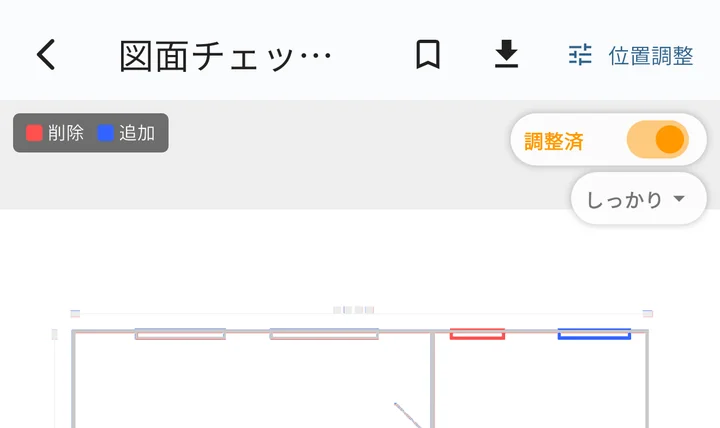
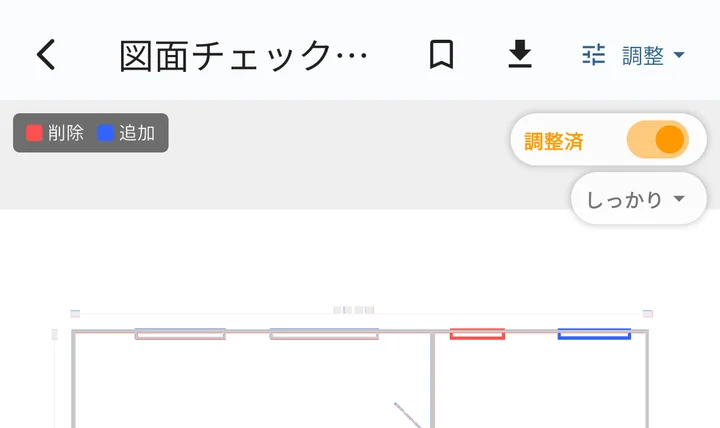
docs: CAD 図面比較「サイズ合わせ画面」の説明を追加
- サイズ合わせ画面（新機能）の手順・操作方法・スクショを新規 H3 で追加
- 「調整 ▾」メニュー導入に伴う表記修正（「位置調整」→「位置合わせ」）
- 既存スクショ 7 件を最新 UI に差し替え（差分結果 / ビューモード旧新 / フィルタ / 調整済切替）
- サイドバー TOC に「サイズ合わせ画面」リンク追加
- 操作リファレンスに サイズ合わせ操作 3 行追加

diff --git a/docs/manual.html b/docs/manual.html
@@ -555,6 +555,7 @@
     <li class="sub2"><a href="#diff-zoom">ズーム・パン</a></li>
     <li class="sub2"><a href="#diff-export">画像エクスポート</a></li>
     <li><a href="#alignment">位置合わせ画面</a></li>
+    <li><a href="#size-alignment">サイズ合わせ画面</a></li>
     <li class="sub"><a href="#diff-actions">操作リファレンス</a></li>
   </ul>
 
@@ -1398,7 +1399,7 @@
   </figure>
   <figure class="shot-phone">
     <img src="images/diff_result.webp" width="720" height="1564" alt="差分結果画面（位置がずれた状態）" loading="lazy" decoding="async">
-    <figcaption>位置がずれている例：図面全体がずれていると、本来の変更箇所以外にも赤青がたくさん出てしまいます。こんな見え方になったら <a href="#alignment">「位置調整」機能</a> で揃えましょう</figcaption>
+    <figcaption>位置がずれている例：図面全体がずれていると、本来の変更箇所以外にも赤青がたくさん出てしまいます。こんな見え方になったら <a href="#alignment">「位置合わせ」機能</a> や <a href="#size-alignment">「サイズ合わせ」機能</a> で揃えましょう</figcaption>
   </figure>
 </div>
 
@@ -1422,7 +1423,7 @@
   <li><strong>タイトル</strong>：図面番号の旧→新（例：2-6 → 2-7）、単独モード時はファイル名</li>
   <li><strong>メモアイコン</strong>：このページのメモ一覧</li>
   <li><strong>🔖 ブックマーク</strong>：この比較結果を登録／解除</li>
-  <li><strong>位置合わせ（手動調整）アイコン</strong>：<a href="#alignment">位置合わせ画面</a>へ</li>
+  <li><strong>「調整 ▾」メニュー</strong>：<a href="#alignment">位置合わせ画面</a> または <a href="#size-alignment">サイズ合わせ画面</a> を選択</li>
   <li><strong>エクスポートアイコン</strong>：画像保存／共有</li>
 </ul>
 
@@ -1478,7 +1479,7 @@
 </div>
 
 <h4 id="diff-adjusted">調整済 / 元の差分 切替</h4>
-<p>手動で位置合わせを行ったページでは、画面右上に「調整済 / 元の差分」の切替スイッチが表示されます。調整結果を適用した差分と、自動位置合わせ時の差分を比較できます。</p>
+<p>位置合わせ または サイズ合わせ を適用したページでは、画面右上に「調整済 / 元の差分」の切替スイッチが表示されます。調整結果を適用した差分と、自動位置合わせ時の差分を比較できます。</p>
 <p>※フィルタレベルが「しっかり」以外の場合、このスイッチは無効になります（常に調整済を表示）。</p>
 
 <figure class="shot-phone">
@@ -1526,7 +1527,12 @@
 <p>差分結果画面の気になる位置を長押しすると、その座標にピンが立ち、メモを残せます。詳細は <a href="#memo-on-diff">ウチメモ+ ＞ CAD差分画面のピンメモ</a> を参照。</p>
 
 <h3 id="alignment">位置合わせ画面</h3>
-<p>差分結果でズレが大きいときに、手動で旧図の位置を調整する画面です。差分結果の画面上部のボタンから遷移します。</p>
+<p>差分結果で位置がずれているときに、手動で旧図の位置を調整する画面です。差分結果画面の右上「<strong>調整 ▾</strong>」メニュー → 「位置合わせ」を選んで遷移します。</p>
+
+<figure class="shot-phone">
+  <img src="images/cad_adjust_menu.webp" width="720" height="1564" alt="「調整 ▾」メニュー（位置合わせ / サイズ合わせ）" loading="lazy" decoding="async">
+  <figcaption>「調整 ▾」メニュー：位置合わせ / サイズ合わせ の 2 種を選べる</figcaption>
+</figure>
 
 <p>画面上部のヘルプバナーに、以下の3ステップが表示されます。</p>
 <ol>
@@ -1572,6 +1578,48 @@
   <p>調整した結果は <strong>ページ単位</strong> で保存されます。ほかのページには影響しません。</p>
 </div>
 
+<h3 id="size-alignment">サイズ合わせ画面</h3>
+<p>旧版と新版で印刷のスケール（縮尺）が違うときに、図面の大きさを揃えるための画面です。差分結果画面の右上「<strong>調整 ▾</strong>」メニュー → 「サイズ合わせ」を選んで遷移します。</p>
+
+<div class="callout tip">
+  <p>普段は <a href="#alignment">位置合わせ</a> だけで十分です。図面のスケールが版間で変わってしまった場合に限ってこの機能を使ってください。</p>
+</div>
+
+<p>画面には旧版と新版が並んで表示され、各図面に①②の枠を配置して<strong>同じ場所を 2 ヶ所マーク</strong>することで、新版と旧版の大きさの比を算出します。</p>
+
+<h4>操作の流れ</h4>
+<ol>
+  <li>①②の枠を、それぞれの図面で<strong>同じ場所</strong>にドラッグして配置</li>
+  <li>枠が点線（グリッド線）の交わる場所に重なると、「<strong>検出OK</strong>」と緑のバッジが表示されます</li>
+  <li>4 ヶ所すべて検出できたら、画面下の「<strong>サイズを比較</strong>」を押します</li>
+  <li>「<strong>比較結果：新版は旧版の XX%</strong>」が表示されます</li>
+  <li>右上の「<strong>適用</strong>」を押すと、差分結果画面で大きさを揃え直して再計算します</li>
+</ol>
+
+<div class="shot-grid">
+  <figure class="shot-phone">
+    <img src="images/cad_size_detected.webp" width="720" height="1564" alt="サイズ合わせ画面：4 ヶ所すべて「検出OK」状態" loading="lazy" decoding="async">
+    <figcaption>4 ヶ所すべて「検出OK」になった状態：「サイズを比較」が押せる</figcaption>
+  </figure>
+  <figure class="shot-phone">
+    <img src="images/cad_size_result.webp" width="720" height="1564" alt="サイズ合わせ画面：比較結果（新版は旧版の 100%）" loading="lazy" decoding="async">
+    <figcaption>比較完了：新版と旧版の大きさの比が表示される</figcaption>
+  </figure>
+</div>
+
+<h4>操作方法</h4>
+<ul>
+  <li><strong>①②の枠（緑・オレンジ）のドラッグ</strong>：枠を画面内で移動・サイズ変更</li>
+  <li><strong>「+」 / 「−」ボタン</strong>（各図面の右下）：図面の拡大 / 縮小</li>
+  <li><strong>「①②をここに置き直す」</strong>：現在の表示位置に①②をリセット配置</li>
+  <li><strong>「サイズを比較」 / 「もう一度比較」</strong>（画面下）：4 ヶ所の枠の位置から大きさの比を計算</li>
+  <li><strong>右上「適用」</strong>：算出した大きさを差分画面に反映</li>
+</ul>
+
+<div class="callout note">
+  <p>サイズ合わせの結果は<strong>ページ単位</strong>で保存されます。同じ比較を再度開いたときは前回の結果がそのまま反映されます。</p>
+</div>
+
 <h3 id="diff-actions">操作リファレンス</h3>
 <div class="action-box">
   <div class="action-row"><strong>種別セグメント</strong><span>CAD図面 / 電気図面 切替</span></div>
@@ -1587,7 +1635,10 @@
   <div class="action-row"><strong>ピンチ・ダブルタップ</strong><span>最大8倍ズーム</span></div>
   <div class="action-row"><strong>画面長押し</strong><span>その位置にメモを追加（ピンメモ）</span></div>
   <div class="action-row"><strong>エクスポートアイコン</strong><span>現在の1枚 or 3枚まとめ</span></div>
-  <div class="action-row"><strong>位置合わせアイコン</strong><span>手動調整画面へ</span></div>
+  <div class="action-row"><strong>「調整 ▾」メニュー</strong><span>位置合わせ / サイズ合わせ を選択</span></div>
+  <div class="action-row"><strong>サイズ合わせ：枠ドラッグ</strong><span>①②を点線（グリッド線）の交わる場所に配置</span></div>
+  <div class="action-row"><strong>サイズ合わせ：「サイズを比較」</strong><span>4 ヶ所から大きさの比を算出</span></div>
+  <div class="action-row"><strong>サイズ合わせ：「適用」</strong><span>差分結果画面に反映</span></div>
   <div class="action-row"><strong>ブックマークアイコン</strong><span>登録／解除</span></div>
 </div>
 
